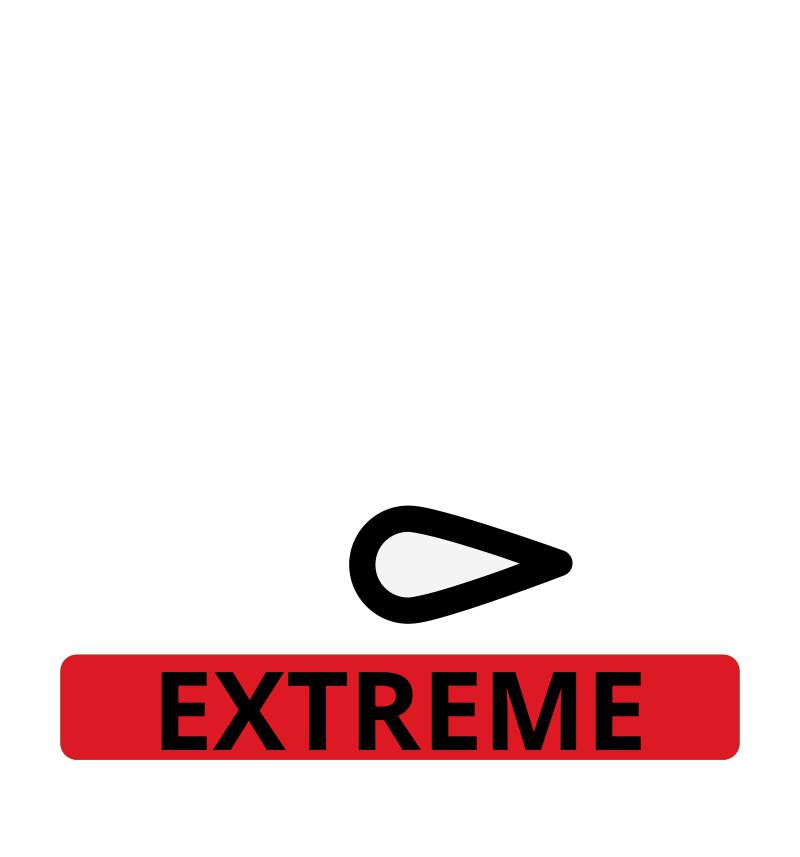
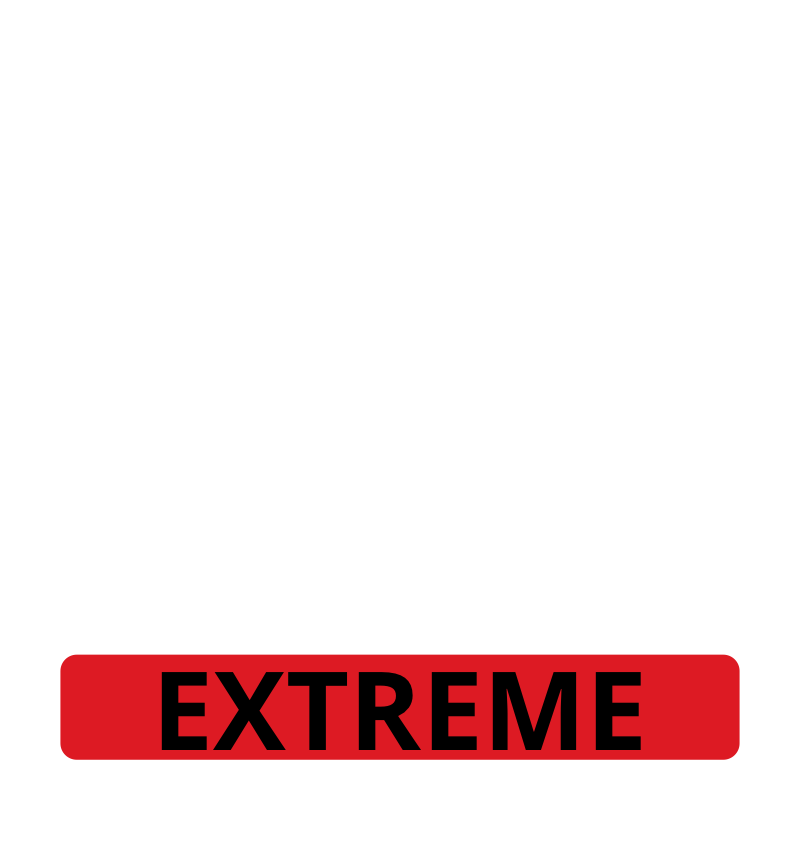
Added Dynamic Needle

Changed region(s): [[0.4375, 0.5764, 0.7188, 0.7281]]

diff --git a/DramaMeter/Program.cs b/DramaMeter/Program.cs
@@ -13,7 +13,8 @@ var app = builder.Build();
 
 var background = Load("./assets/bg.png");
 var foreground = Load("./assets/foreground.png");
-var levels = new Dictionary<string, (Image image, Color color)>(OrdinalIgnoreCase)
+var needle = Load("./assets/needle.png");
+var levels = new Dictionary<string, (Image label, Color color)>(OrdinalIgnoreCase)
 {
     {"low", (Load("./assets/low.png"), LightGreen)},
     {"moderate", (Load("./assets/moderate.png"), Yellow)},
@@ -21,19 +22,37 @@ var levels = new Dictionary<string, (Image image, Color color)>(OrdinalIgnoreCas
     {"extreme", (Load("./assets/extreme.png"), Red)}
 };
 
-app.MapGet("/", async (HttpContext http, string? level) => {
-    level ??= "low";
+app.MapGet("/", async (HttpContext http, int? severity) =>
+{
+    var rotation = Math.Clamp(severity ?? 0, 0, 180);
 
-    if (!levels.TryGetValue(level.Trim(), out var result))
-        return BadRequest("invalid level");
+    var rotatedNeedle = needle.CloneAs<Rgba32>();
+    rotatedNeedle.Mutate(ctx =>
+    {
+        ctx.Transform(new AffineTransformBuilder()
+            .AppendRotationDegrees(rotation)
+        );
+        ctx.Pad(background.Width, background.Height, Transparent);
+    });
+
+    // find the severity based on ranges
+    var result = rotation switch
+    {
+        <= 180 and > 135 => levels["extreme"],
+        <= 135 and > 90 => levels["high"],
+        <= 90 and > 45 => levels["moderate"],
+        _ => levels["low"]
+    };
 
     var image = background.CloneAs<Rgba32>();
-    image.Mutate(ctx => {
+    image.Mutate(ctx =>
+    {
         ctx.Vignette(result.color); // match the background to the intensity
         ctx.DrawImage(foreground, new Point(0, 0), 1f);
-        ctx.DrawImage(result.image, new Point(0, 0), opacity: 1f);
+        ctx.DrawImage(rotatedNeedle, new Point(5, 170), opacity: 1f);
+        ctx.DrawImage(result.label, new Point(0, 20), opacity: 1f);
     });
-    
+
     var memoryStream = new MemoryStream();
     await image.SaveAsync(memoryStream, PngFormat.Instance);
     await memoryStream.FlushAsync();

diff --git a/readme.md b/readme.md
@@ -7,7 +7,7 @@ A Minimal API that generates a .NET Drama meter based on a level:
 - **High**
 - **Extreme**
 
-Run the project and pass a `level` url parameter. For example a level of `high` will generate the following image.
+Run the project and pass a `severity` url parameter between `0` and `180` and the endpoint will generate the following image.
 
 ![img.png](img.png)
 
